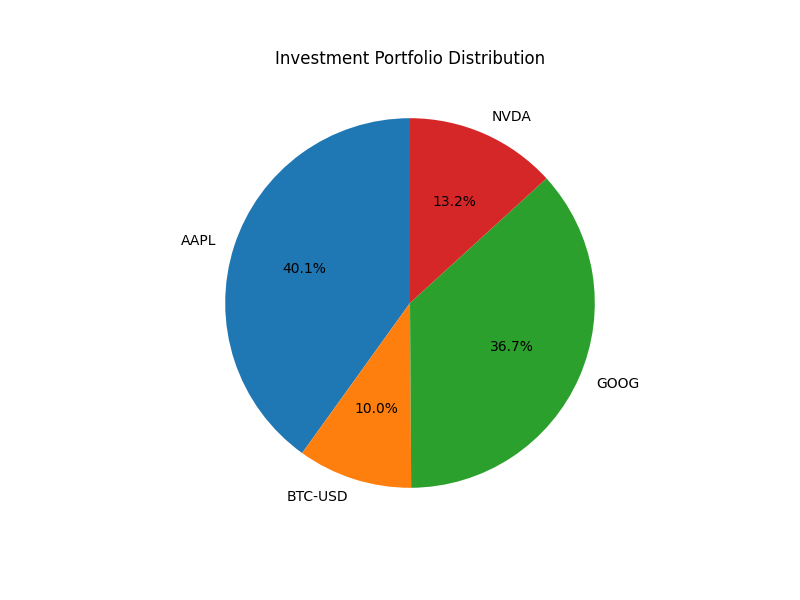
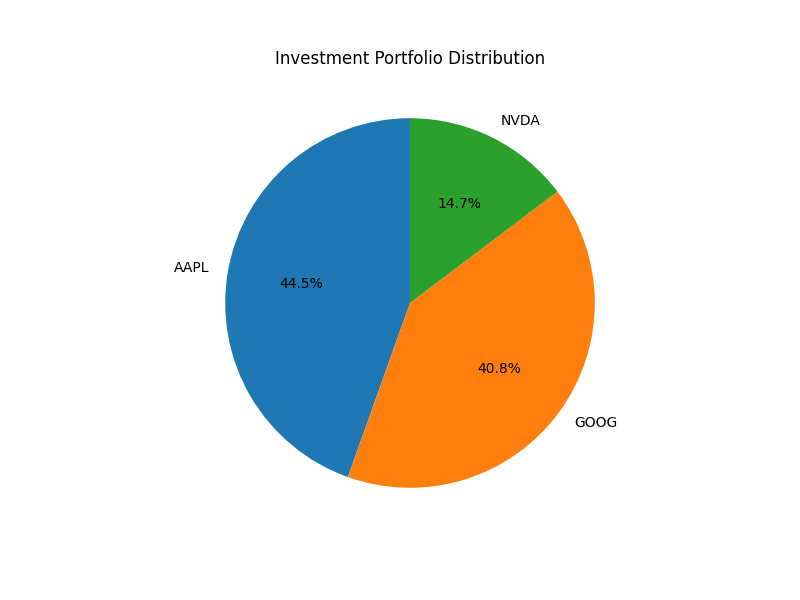
In progress

diff --git a/app.py b/app.py
@@ -229,13 +229,14 @@ def delete_expense(expense_id):
             cursor = conn.cursor()
             cursor.execute("DELETE FROM expenses WHERE id = ? AND user_id = ?", (expense_id, user_id))
             conn.commit()
+
+        # Regenerate the expense chart after deletion
+        generate_expense_chart(user_id)
+
         flash('Expense deleted successfully!', 'success')
     except Exception as e:
         flash(f"Error deleting expense: {e}", 'error')
     return redirect(url_for('dashboard') + '#expense-section')
-
-
-
 
 
 # Add income with month tracking
@@ -310,6 +311,7 @@ def add_investment():
         flash(f"Error adding investment: {e}", "error")
     return redirect(url_for('dashboard') + '#investment-section')
 
+
 @app.route('/delete-investment/<int:investment_id>', methods=['POST'])
 @login_required
 def delete_investment(investment_id):
@@ -319,10 +321,15 @@ def delete_investment(investment_id):
             cursor = conn.cursor()
             cursor.execute("DELETE FROM investments WHERE id = ? AND user_id = ?", (investment_id, user_id))
             conn.commit()
+
+        # Regenerate the investment chart after deletion
+        generate_investment_chart(user_id)
+
         flash('Investment deleted successfully!', 'success')
     except Exception as e:
         flash(f"Error deleting Investment: {e}", 'error')
     return redirect(url_for('dashboard') + '#investment-section')
+
 
 # Generate expense chart function
 def generate_expense_chart(user_id):
